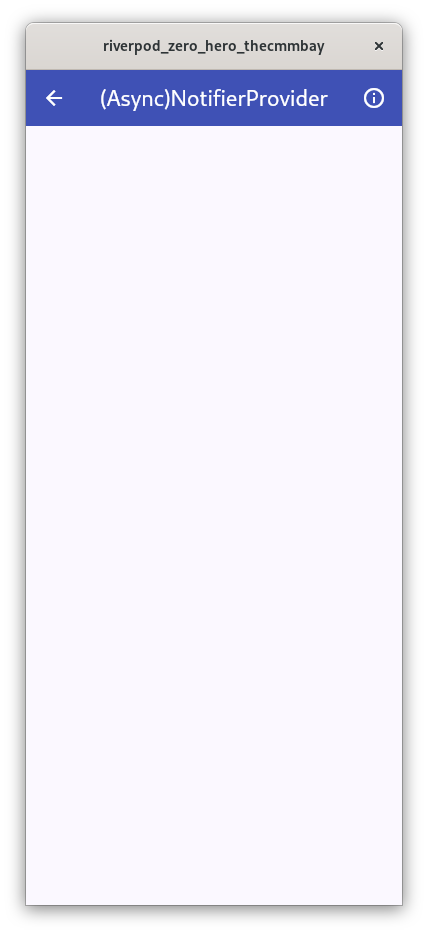
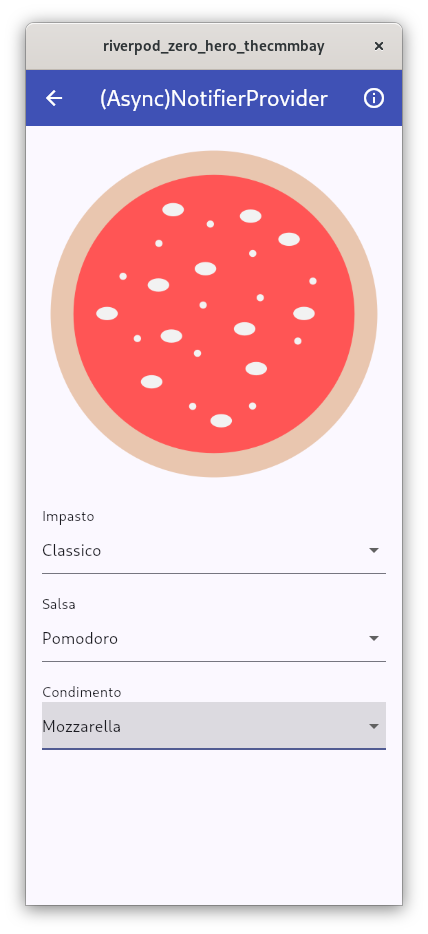
feat: Add new NotifierProvider with example

diff --git a/lib/pages/notifier_page.dart b/lib/pages/notifier_page.dart
@@ -1,6 +1,7 @@
 import 'package:flutter/material.dart';
 import 'package:flutter_riverpod/flutter_riverpod.dart';
 import 'package:riverpod_zero_hero_thecmmbay/i10n/hardcoded_strings.dart';
+import 'package:riverpod_zero_hero_thecmmbay/provider/notifier_provider.dart';
 import 'package:riverpod_zero_hero_thecmmbay/utils/utils.dart';
 
 class NotifierPage extends ConsumerWidget {
@@ -8,6 +9,8 @@ class NotifierPage extends ConsumerWidget {
 
   @override
   Widget build(BuildContext context, WidgetRef ref) {
+    final myPizzaProvider = ref.watch(pizzaProvider);
+
     return Scaffold(
       appBar: AppBar(
         title: Text('(Async)NotifierProvider'.hardcoded),
@@ -23,7 +26,81 @@ class NotifierPage extends ConsumerWidget {
           ),
         ],
       ),
-      body: const SizedBox.shrink(),
+      body: Padding(
+        padding: const EdgeInsets.all(16),
+        child: Column(
+          crossAxisAlignment: CrossAxisAlignment.start,
+          children: [
+            Stack(
+              children: [
+                myPizzaProvider.linkImpasto == ""
+                    ? const SizedBox.shrink()
+                    : Image.asset(myPizzaProvider.linkImpasto),
+                myPizzaProvider.linkSalsa == ""
+                    ? const SizedBox.shrink()
+                    : Image.asset(myPizzaProvider.linkSalsa),
+                myPizzaProvider.linkCondimento == ""
+                    ? const SizedBox.shrink()
+                    : Image.asset(myPizzaProvider.linkCondimento),
+              ],
+            ),
+            gapH(20),
+            Text("Impasto".hardcoded),
+            DropdownButtonFormField(
+              value: impastoOptionList[0].link,
+              onChanged: (value) {
+                ref.read(pizzaProvider.notifier).changeImpasto(value!);
+              },
+              items: impastoOptionList
+                  .map(
+                    (singleDivider) => DropdownMenuItem(
+                      value: singleDivider.link,
+                      child: Text(
+                        singleDivider.name,
+                      ),
+                    ),
+                  )
+                  .toList(),
+            ),
+            gapH(20),
+            Text("Salsa".hardcoded),
+            DropdownButtonFormField(
+              value: salsaOptionList[0].link,
+              onChanged: (value) {
+                ref.read(pizzaProvider.notifier).changeSalsa(value!);
+              },
+              items: salsaOptionList
+                  .map(
+                    (singleDivider) => DropdownMenuItem(
+                      value: singleDivider.link,
+                      child: Text(
+                        singleDivider.name,
+                      ),
+                    ),
+                  )
+                  .toList(),
+            ),
+            gapH(20),
+            Text("Condimento".hardcoded),
+            DropdownButtonFormField(
+              value: condimentoOptionList[0].link,
+              onChanged: (value) {
+                ref.read(pizzaProvider.notifier).changeCondimento(value!);
+              },
+              items: condimentoOptionList
+                  .map(
+                    (singleDivider) => DropdownMenuItem(
+                      value: singleDivider.link,
+                      child: Text(
+                        singleDivider.name,
+                      ),
+                    ),
+                  )
+                  .toList(),
+            ),
+          ],
+        ),
+      ),
     );
   }
 }

diff --git a/lib/provider/notifier_provider.dart b/lib/provider/notifier_provider.dart
@@ -1,0 +1,76 @@
+import 'package:riverpod_annotation/riverpod_annotation.dart';
+
+part 'notifier_provider.g.dart';
+
+class PizzaOption {
+  final String name;
+  final String link;
+
+  PizzaOption({required this.name, required this.link});
+}
+
+class MyPizza {
+  final String linkImpasto;
+  final String linkSalsa;
+  final String linkCondimento;
+
+  MyPizza({
+    required this.linkImpasto,
+    required this.linkSalsa,
+    required this.linkCondimento,
+  });
+
+  MyPizza copyWith({
+    String? linkImpasto,
+    String? linkSalsa,
+    String? linkCondimento,
+  }) {
+    return MyPizza(
+      linkImpasto: linkImpasto ?? this.linkImpasto,
+      linkSalsa: linkSalsa ?? this.linkSalsa,
+      linkCondimento: linkCondimento ?? this.linkCondimento,
+    );
+  }
+}
+
+List<PizzaOption> impastoOptionList = [
+  PizzaOption(name: "Empty Impasto", link: ""),
+  PizzaOption(name: "Classico", link: "assets/layer/impasto/classico.png"),
+  PizzaOption(name: "Integrale", link: "assets/layer/impasto/integrale.png"),
+  PizzaOption(name: "Farro", link: "assets/layer/impasto/farro.png"),
+];
+
+List<PizzaOption> salsaOptionList = [
+  PizzaOption(name: "Empty Salsa", link: ""),
+  PizzaOption(name: "Pomodoro", link: "assets/layer/salsa/pomodoro.png"),
+  PizzaOption(name: "Formaggio", link: "assets/layer/salsa/formaggio.png"),
+  PizzaOption(name: "Zucca", link: "assets/layer/salsa/zucca.png"),
+];
+
+List<PizzaOption> condimentoOptionList = [
+  PizzaOption(name: "Empty Condimento", link: ""),
+  PizzaOption(
+      name: "Mozzarella", link: "assets/layer/condimento/mozzarella.png"),
+  PizzaOption(name: "Patate", link: "assets/layer/condimento/patate.png"),
+  PizzaOption(name: "Peperoni", link: "assets/layer/condimento/peperoni.png"),
+];
+
+@riverpod
+class Pizza extends _$Pizza {
+  @override
+  MyPizza build() {
+    return MyPizza(linkCondimento: "", linkImpasto: "", linkSalsa: "");
+  }
+
+  void changeImpasto(String newImpastoLink) {
+    state = state.copyWith(linkImpasto: newImpastoLink);
+  }
+
+  void changeSalsa(String newSalsaLink) {
+    state = state.copyWith(linkSalsa: newSalsaLink);
+  }
+
+  void changeCondimento(String newCondimentoLink) {
+    state = state.copyWith(linkCondimento: newCondimentoLink);
+  }
+}

diff --git a/lib/provider/notifier_provider.g.dart b/lib/provider/notifier_provider.g.dart
@@ -1,0 +1,24 @@
+// GENERATED CODE - DO NOT MODIFY BY HAND
+
+part of 'notifier_provider.dart';
+
+// **************************************************************************
+// RiverpodGenerator
+// **************************************************************************
+
+String _$pizzaHash() => r'7fd16eb2598071252f2bfb3af906eef8b7e51cfd';
+
+/// See also [Pizza].
+@ProviderFor(Pizza)
+final pizzaProvider = AutoDisposeNotifierProvider<Pizza, MyPizza>.internal(
+  Pizza.new,
+  name: r'pizzaProvider',
+  debugGetCreateSourceHash:
+      const bool.fromEnvironment('dart.vm.product') ? null : _$pizzaHash,
+  dependencies: null,
+  allTransitiveDependencies: null,
+);
+
+typedef _$Pizza = AutoDisposeNotifier<MyPizza>;
+// ignore_for_file: type=lint
+// ignore_for_file: subtype_of_sealed_class, invalid_use_of_internal_member, invalid_use_of_visible_for_testing_member

diff --git a/lib/pages/state_provider_page.dart b/lib/pages/state_provider_page.dart
@@ -1,9 +1,8 @@
 import 'package:flutter/material.dart';
 import 'package:flutter_riverpod/flutter_riverpod.dart';
 import 'package:riverpod_zero_hero_thecmmbay/i10n/hardcoded_strings.dart';
+import 'package:riverpod_zero_hero_thecmmbay/provider/state_provider.dart';
 import 'package:riverpod_zero_hero_thecmmbay/utils/utils.dart';
-
-final indexTabProvider = StateProvider<int>((ref) => 0);
 
 class StateProviderPage extends ConsumerWidget {
   const StateProviderPage({super.key});

diff --git a/lib/utils/utils.dart b/lib/utils/utils.dart
@@ -1,4 +1,13 @@
+import 'package:flutter/material.dart';
 import 'package:url_launcher/url_launcher.dart';
+
+gapH(double height) => SizedBox(
+      height: height,
+    );
+
+gapW(double width) => SizedBox(
+      width: width,
+    );
 
 Future<void> goToUrl(String url) async {
   if (!await launchUrl(Uri.parse(url))) {

diff --git a/lib/provider/state_provider.dart b/lib/provider/state_provider.dart
@@ -1,0 +1,3 @@
+import 'package:flutter_riverpod/flutter_riverpod.dart';
+
+final indexTabProvider = StateProvider<int>((ref) => 0);
